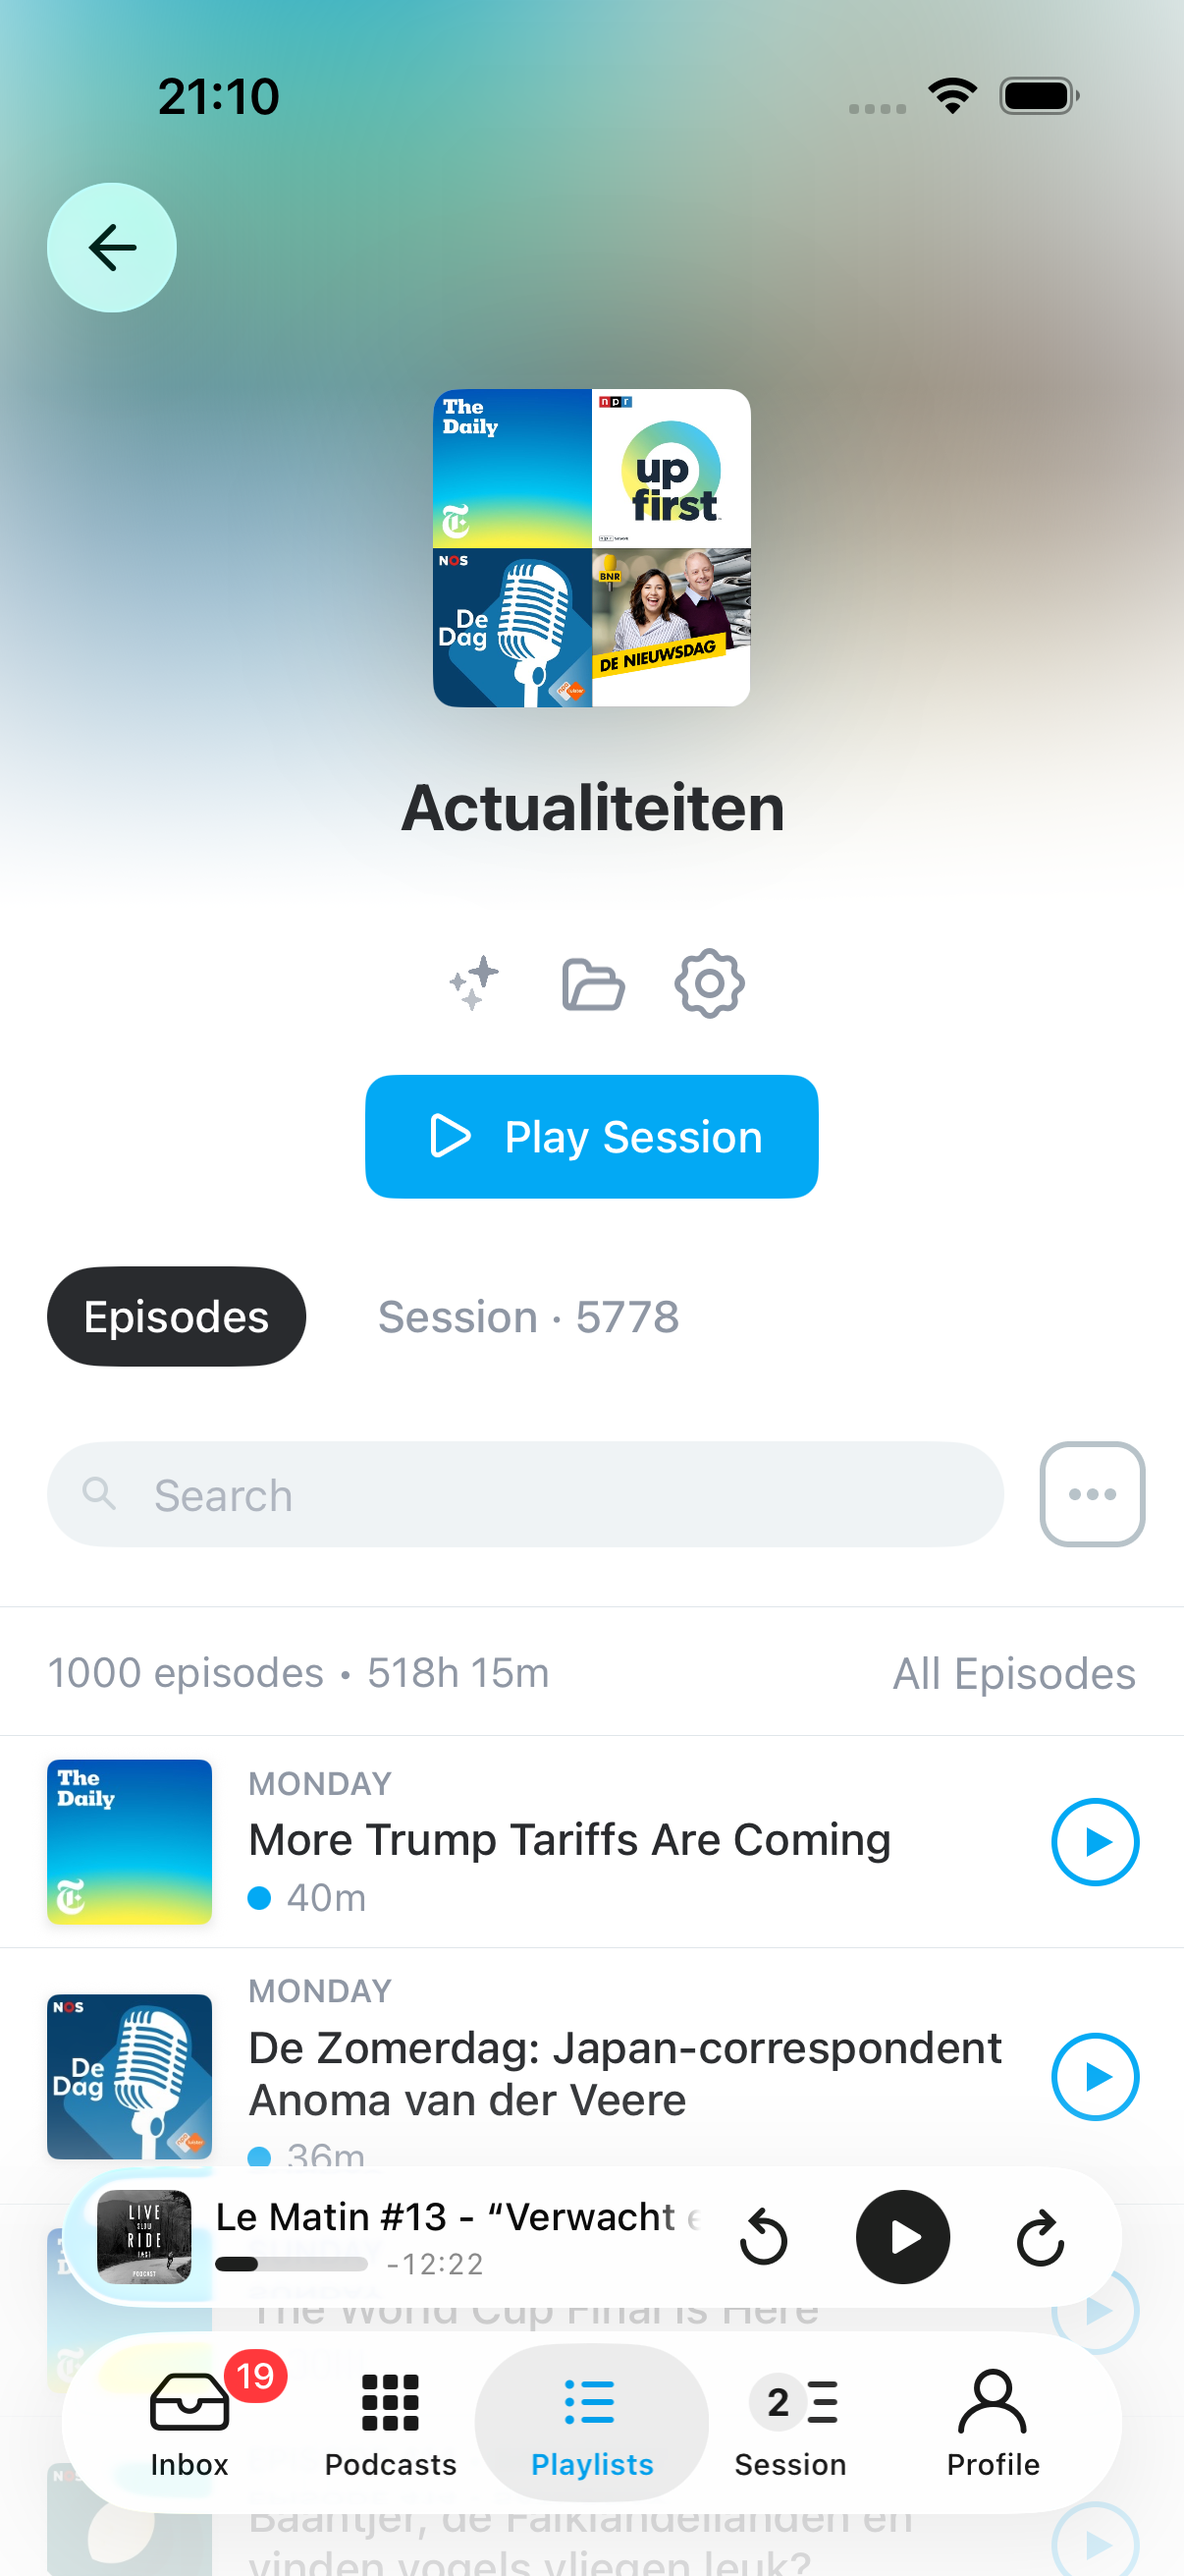
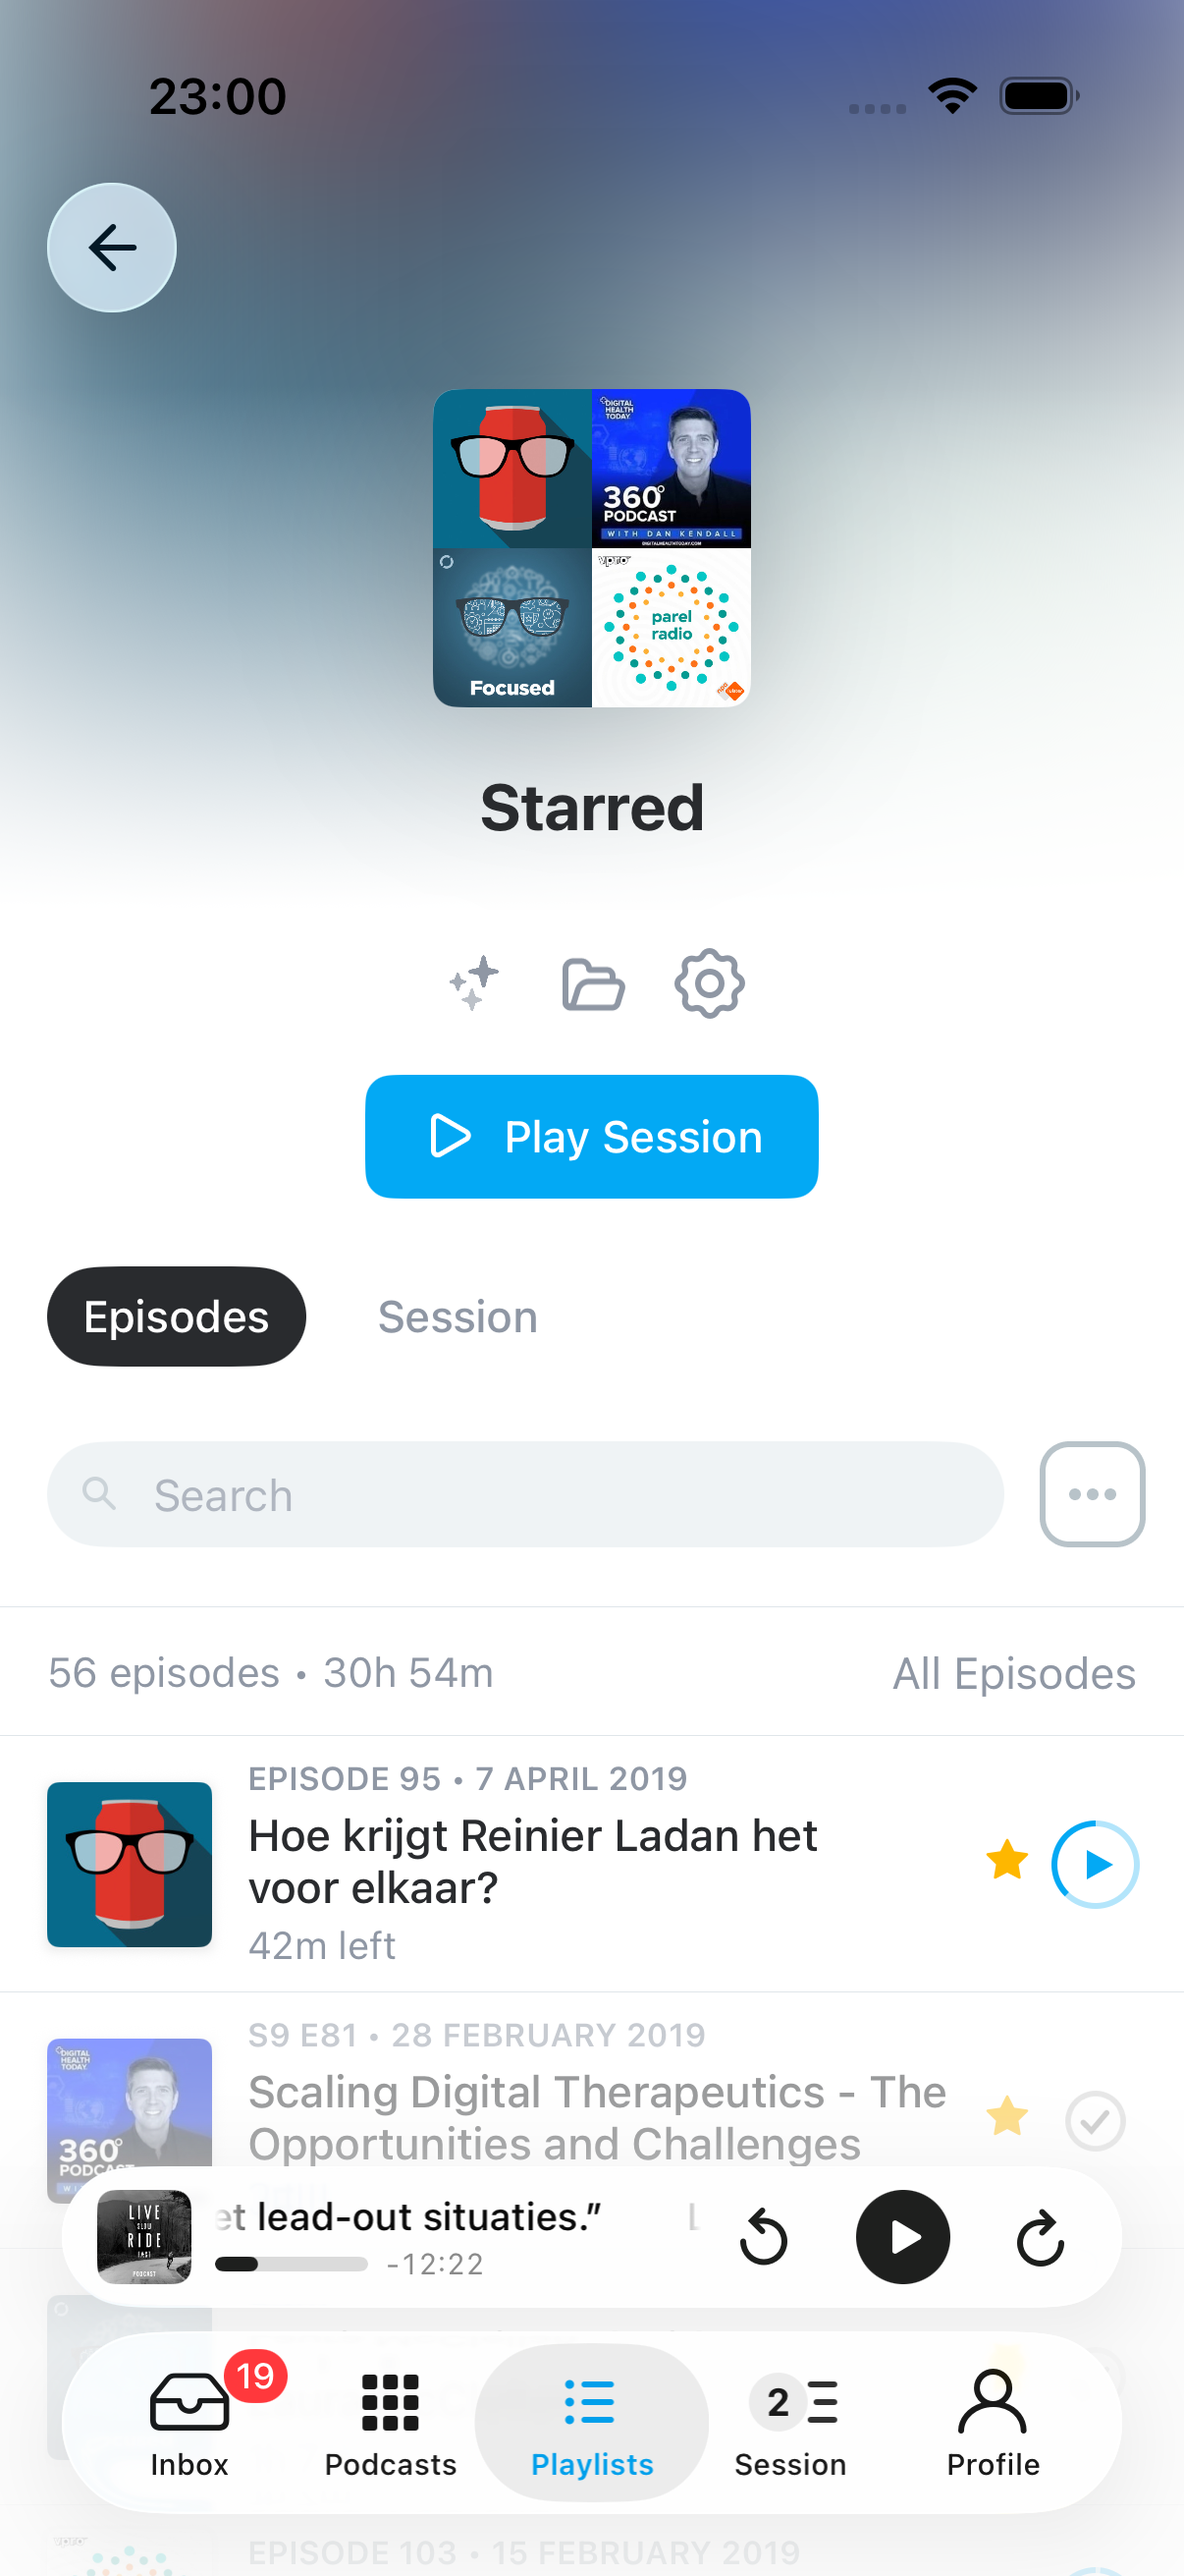
Regenerate fork screenshots for the current UI
Reshoot docs/fork/ against the current design: the session chooser and lineup,
the Switch sheet, a smart playlist's Session tab, session settings, and smart
rules. The playlist shot now uses a small "Starred" filter so the count reads
cleanly rather than a 5000-episode filter.

Repair the ForkScreenshots harness to match the UI it photographs: correct tab
indices, the Switch sheet now behind a tab-bar long press, two-level Session
navigation, and pop the Playlists tab to its list before opening a named
playlist (it restores the last-viewed detail otherwise).

Claude-Session: https://claude.ai/code/session_01LdWhin2zQf6Yyb2kGeNh6K

diff --git a/Screenshot Automation/GenerateScreenshots.swift b/Screenshot Automation/GenerateScreenshots.swift
@@ -221,10 +221,25 @@ final class ForkScreenshots: XCTestCase {
     /// so try the stock smart playlists first and otherwise take the first row that isn't
     /// the Inbox (which is a manual playlist and has no Play Session button).
     private func openSmartPlaylist() {
-        for name in ["Starred", "In Progress", "New Releases"] {
-            let row = element(labeled: name)
-            if row.exists {
-                row.coordinate(withNormalizedOffset: CGVector(dx: 0.5, dy: 0.5)).tap()
+        // The Playlists tab restores its last-viewed DETAIL page on the nav stack, so it can
+        // land on a pushed playlist rather than the list. Pop back to the list first —
+        // otherwise the named-row match below never finds anything and the fallback captures
+        // whatever detail was restored.
+        for _ in 0 ..< 4 {
+            let back = app.buttons["Back"]
+            if back.exists, back.isHittable { back.tap(); sleep(1) } else { break }
+        }
+
+        // Prefer a genuinely small smart playlist so the Session count reads cleanly in the
+        // README. Match the row by its label PREFIX (the cell text is "<Name>, Smart
+        // playlist") and tap the static text itself — resolving `element(labeled:)` to a
+        // zero-size ancestor was why this used to fall through and open a huge playlist.
+        for name in ["Starred", "In Progress"] {
+            let label = app.staticTexts.matching(
+                NSPredicate(format: "label BEGINSWITH[c] %@", name + ",")
+            ).firstMatch
+            if label.waitForExistence(timeout: 5) {
+                label.tap()
                 return
             }
         }
@@ -257,10 +272,10 @@ final class ForkScreenshots: XCTestCase {
         sleep(2)
         snapshot("session-in-up-next")
 
-        // 3. The Switch Session sheet, off the Up Next tab's left nav button.
-        let switchButton = app.navigationBars.buttons["Switch"]
-        XCTAssert(switchButton.waitForExistence(timeout: 10), "Missing Switch button")
-        switchButton.tap()
+        // 3. The Switch Session sheet. There is no nav-bar Switch button any more (the
+        // chooser replaced it) — the sheet lives behind a long press on the Up Next /
+        // Session tab bar item.
+        app.tabBars.firstMatch.buttons.element(boundBy: ForkTab.upNext.rawValue).press(forDuration: 1.2)
         sleep(2)
         snapshot("switch-session")
         app.swipeDown(velocity: .fast)
